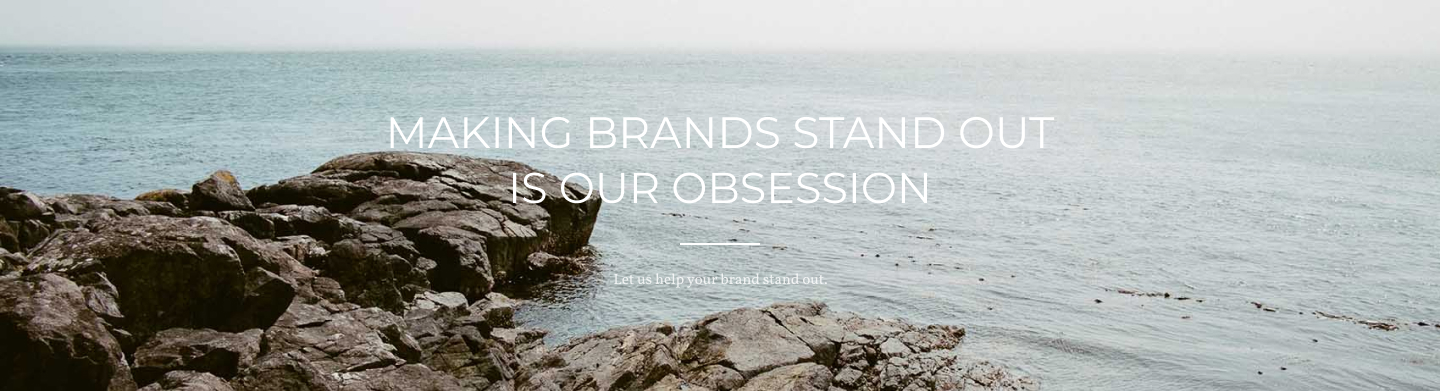
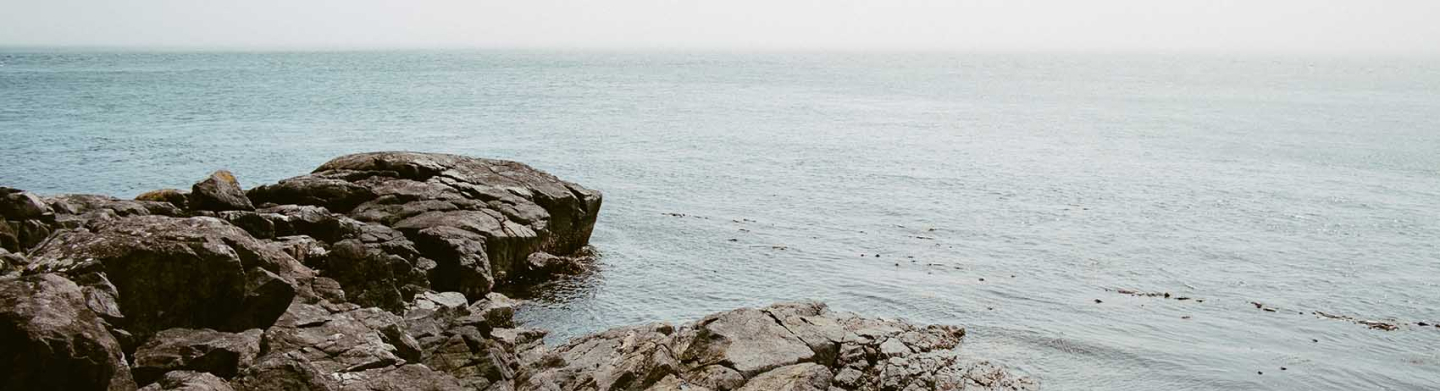
add section info

diff --git a/css/style.css b/css/style.css
@@ -4,6 +4,11 @@
     box-sizing: border-box;
 }
 
+h1{
+    padding: 0;
+    margin: 0;
+}
+
 ul{
     margin: 0;
     padding: 0;
@@ -17,6 +22,10 @@ li{
 a{
     text-decoration: none;
     color: inherit;
+}
+p{
+    padding: 0;
+    margin: 0;
 }
 
 .container{
@@ -63,4 +72,73 @@ body{
 
 .menu__link:hover{
     color: #000000;
+}
+
+/*info*/
+.info{
+    position: relative;
+    background-image: url(../images/background.jpg);
+    background-size: cover;
+    background-repeat: no-repeat;
+    background-position: center top;
+    height: 391px;
+}
+
+.info:before,
+.info:after{
+    content: '';
+    position: absolute;
+    bottom: 0;
+    margin: auto;
+    left: 0;
+    right: 0;
+    height: 2px;
+    width: 52px;
+    background-color: #2B2B2B;
+}
+
+.info:after{
+    transform: rotate(45deg);
+}
+
+.info:before{
+    transform: rotate(-45deg);
+}
+
+.info__content{
+    max-width: 672px;
+    margin: 0 auto;
+    text-align: center;
+    padding-top: 105px;
+}
+
+.info__title{
+
+    position: relative;
+    font-family: 'Montserrat', sans-serif;
+    font-size: 44px;
+    line-height: 55px;
+    text-transform: uppercase;
+    color: #fff;
+    padding-bottom: 28px;
+    
+}
+
+.info__title:after{
+    content: "";
+    position: absolute;
+    bottom: 0;
+    margin: 0 auto;
+    left: 0;
+    right: 0;
+    width: 80px;
+    height: 2px;
+    background-color: #fff;
+
+}
+
+.info__subtitle{
+    line-height: 20px;
+    color: rgba(255, 255, 255, 0.81);
+    margin-top: 25px;
 }

diff --git a/index.html b/index.html
@@ -38,6 +38,14 @@
             </div>
         </div>
     </header>
+    <section class="info">
+        <div class="container">
+            <div class="info__content">
+                <h1 class="info__title">Making brands stand out is our obsession</h1>
+                <p class="info__subtitle">Let us help your brand stand out.</p>
+            </div>
+        </div>
+    </section>
 </body>
 
 </html>
